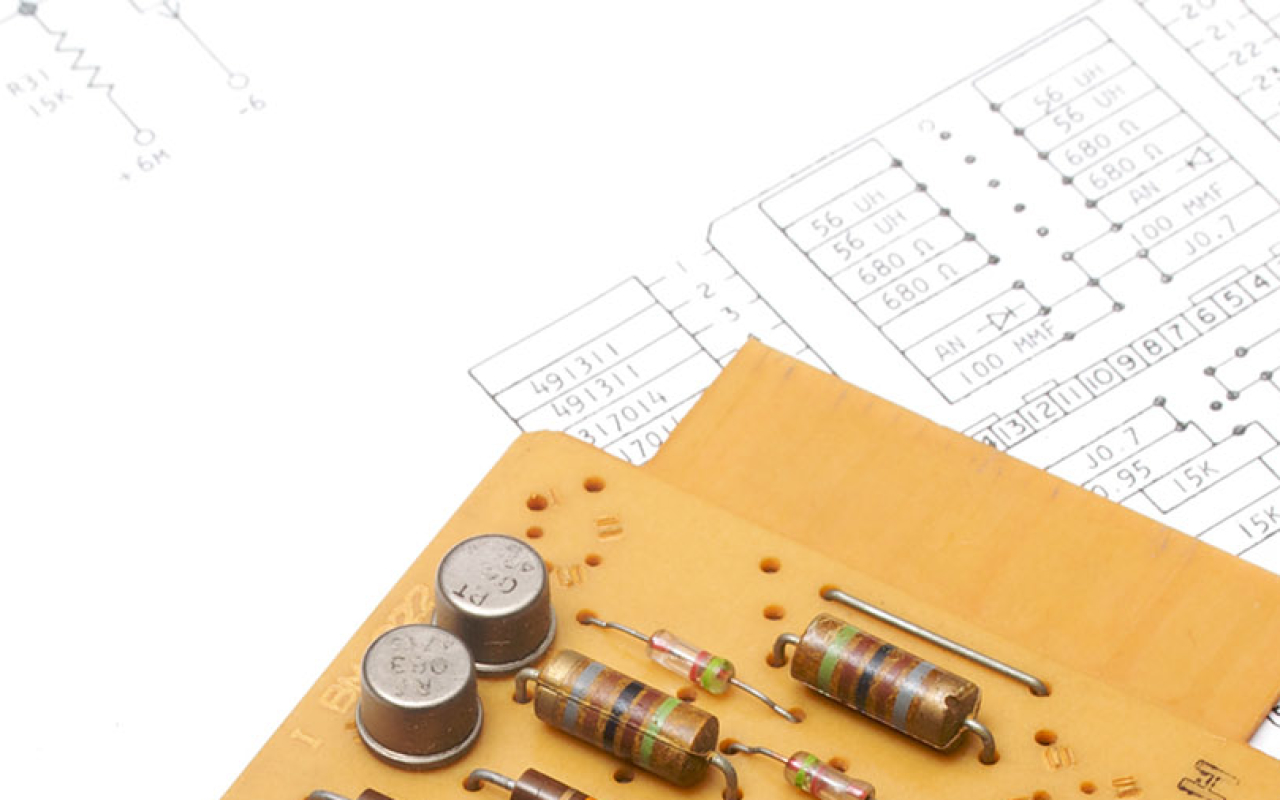
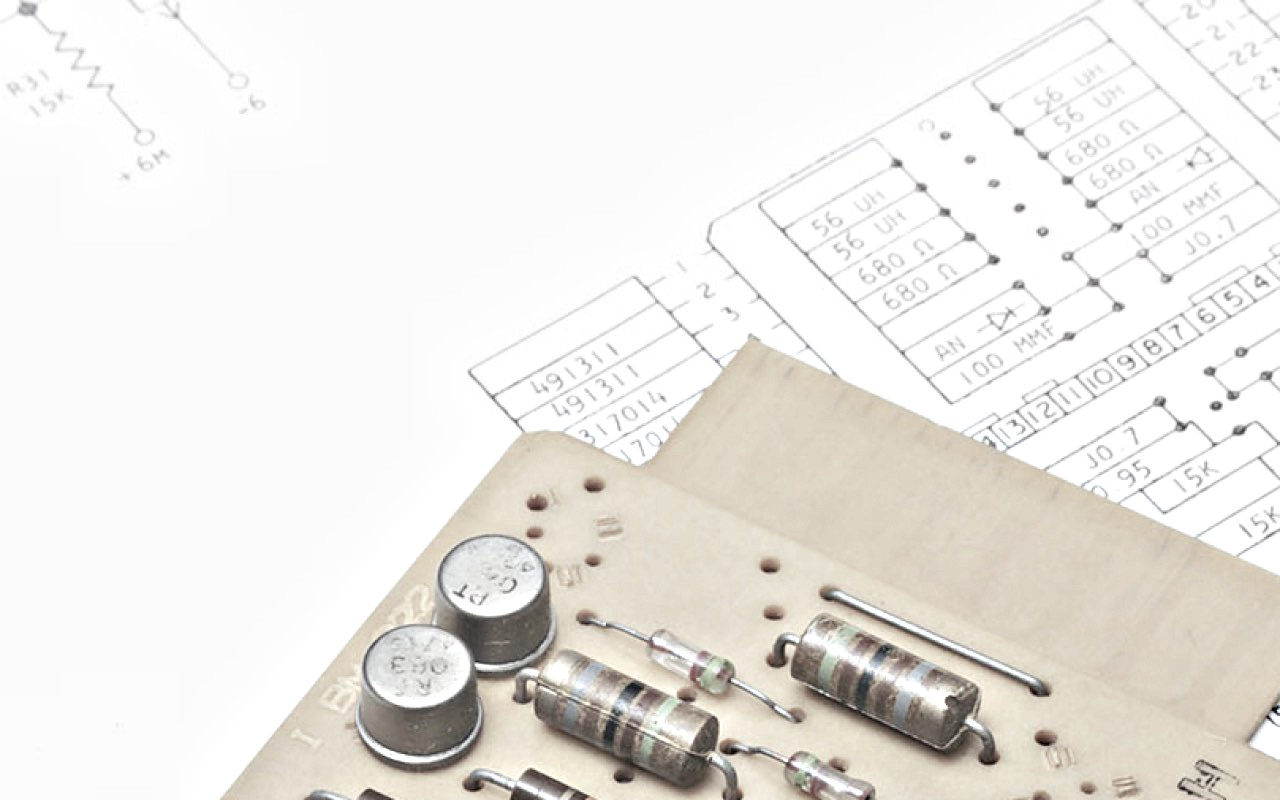
sensors working,background still not looking good

diff --git a/c2net-iot-hub-site/Sensor.html b/c2net-iot-hub-site/Sensor.html
@@ -343,10 +343,11 @@ $(document).ready(function(){
 	  	console.log("clicked");
 	  	var x = []
 	  	
-		if ($("#page--hero input:checkbox:checked").length > 0)
+		if ($("#list input:checkbox:checked").length > 0)
 		{
 			var ids=[];
 			var clicked = $("#page--hero input:checkbox:checked")
+			console.log();
 			for (var i = 0 ; i < clicked.length; i++){
 				var obj={};
 				console.log(clicked[i].id);

diff --git a/c2net-iot-hub-site/LWFiles/style.css b/c2net-iot-hub-site/LWFiles/style.css
@@ -72,7 +72,7 @@ html {
 body {
   margin: 0;
   /*background-image: url('./pf.png');*/
-  background-image: url('./blah.jpg');
+  background-image: url('./cropped1.jpg');
   /*background: -moz-linear-gradient(#c9d6ff,#e2e2e2); /* For Firefox 3.6 to 15 */
   /*background: linear-gradient(#F8F8F8,#E8E8E8); /* Standard syntax */
   background-repeat:no-repeat;

diff --git a/c2net-iot-hub-site/LWFiles/types_of_sensors.css b/c2net-iot-hub-site/LWFiles/types_of_sensors.css
@@ -9,5 +9,7 @@
     padding-bottom: 2em;
 
 }
-#list5 li ul li label{color:#FF0000;}
-#list5 { color:#606060;font-size:28px;text-align: center;padding-top: 15cm; padding:15px 0 15px 15px; }
+
+#list5 { color:#181818;font-size:28px;text-align: center;padding-top: 15cm; padding:15px 0 15px 15px; }
+
+#list5  ul li label {color:#0066FF;font-size:15px; }
